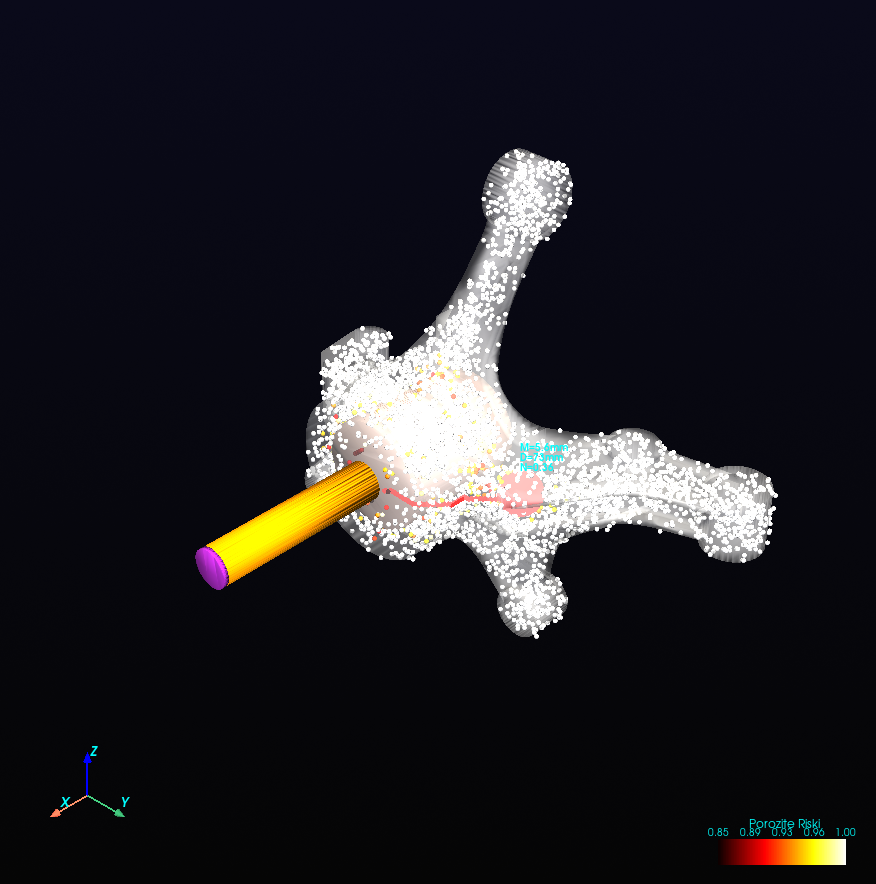
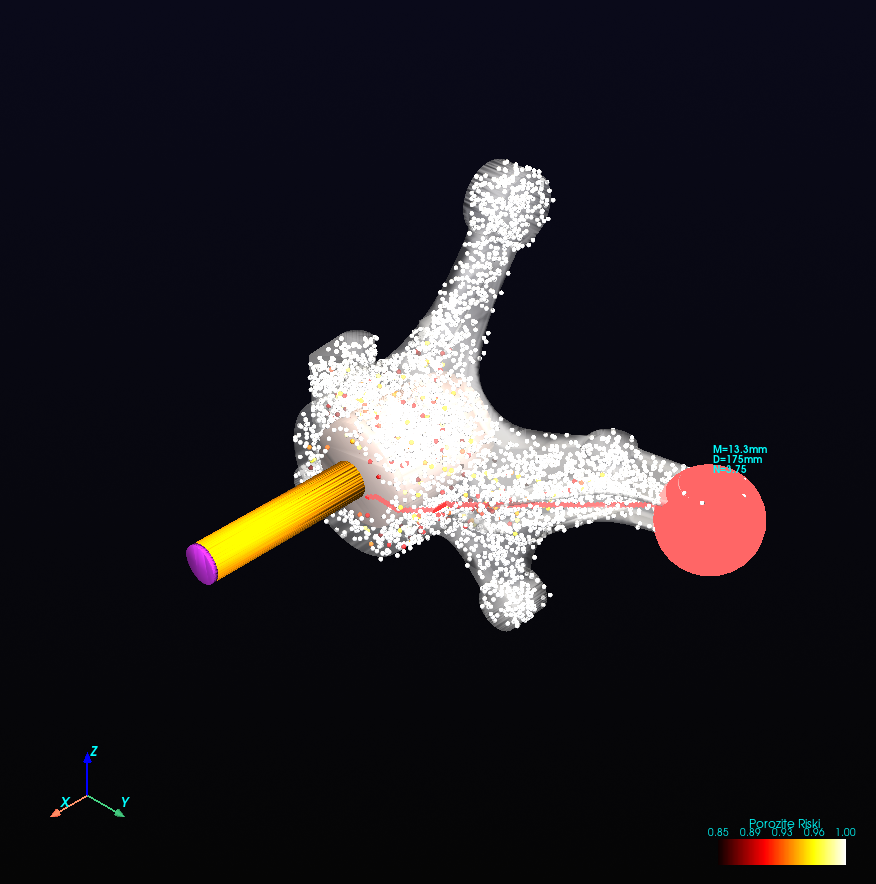
v8.3: shape-corrected Niyama, M_mod hot-spot detection, alloy feed distances, Darcy fix

Changed region(s): [[0.2158, 0.1527, 0.8938, 0.733]]

diff --git a/core/sdf_analyzer.py b/core/sdf_analyzer.py
@@ -1,7 +1,7 @@
 """SDF-based geometric + pseudo-thermal casting analyzer - JoseCast v8.0."""
 
 from dataclasses import replace
-from typing import Dict, List, Optional, Tuple
+from typing import Dict, List, Optional, Tuple, Union
 
 import numpy as np
 import trimesh
@@ -168,24 +168,26 @@ def _scheil_fs(T_arr, t_liq, t_sol, k):
 
 
 def _temperature_from_erf(
-    sdf: np.ndarray, t: float, alloy: Alloy, mold: MoldMaterial
+    sdf: np.ndarray, t: Union[float, np.ndarray], alloy: Alloy, mold: MoldMaterial
 ) -> np.ndarray:
     """1-D semi-infinite solution of the Fourier heat equation in the normal direction."""
     alpha = mold.diffusivity_mm2_s
-    if t <= 0 or alpha <= 0:
+    if alpha <= 0:
         return np.full_like(sdf, alloy.t_pour_c)
+    t = np.maximum(np.asarray(t, dtype=np.float64), 1e-9)
     arg = sdf / (2.0 * np.sqrt(alpha * t))
     T = mold.t0_c + (alloy.t_pour_c - mold.t0_c) * erf(arg)
     return np.clip(T, mold.t0_c, alloy.t_pour_c)
 
 
 def _cooling_rate_from_erf(
-    sdf: np.ndarray, t: float, alloy: Alloy, mold: MoldMaterial
+    sdf: np.ndarray, t: Union[float, np.ndarray], alloy: Alloy, mold: MoldMaterial
 ) -> np.ndarray:
     """Time derivative dT/dt of the erf solution (always <= 0 for cooling)."""
     alpha = mold.diffusivity_mm2_s
-    if t <= 0 or alpha <= 0:
+    if alpha <= 0:
         return np.zeros_like(sdf)
+    t = np.maximum(np.asarray(t, dtype=np.float64), 1e-9)
     sqrt_term = np.sqrt(alpha * t)
     arg = sdf / (2.0 * sqrt_term)
     exp = np.exp(-(arg * arg))
@@ -204,20 +206,24 @@ def compute_thermal_field(
     n_steps: int = 100,
     progress_callback: Optional[callable] = None,
     sdf: Optional[np.ndarray] = None,
+    M_mod: Optional[np.ndarray] = None,
 ) -> Tuple[np.ndarray, np.ndarray, np.ndarray, np.ndarray]:
     """
-    Analytical thermal field from the 1-D heat equation normal to the surface:
-        T(x,t) = T0 + (T_pour - T0) * erf( x / (2 sqrt(alpha*t)) )
+    Analytical 1-D thermal field at the local Chvorinov solidification time:
+        T(x,t_s) = T0 + (T_pour - T0) * erf( x / (2 sqrt(alpha*t_s)) )
     x is the signed distance to the nearest surface (SDF). Latent heat enters
     through the Scheil solid fraction. Returns (T, dT/dt, fs, div(∇T)).
     """
     if sdf is None:
         sdf = compute_subvoxel_sdf(is_metal, dx, sub=1)
     C = chvorinov_c_from_properties(alloy, mold)
-    M_med = float(np.median(sdf[is_metal])) if is_metal.any() else 0.0
-    t_eval = max(0.5 * C * M_med ** 2, 1e-6)
-    T = _temperature_from_erf(sdf, t_eval, alloy, mold)
-    cooling_rate = -_cooling_rate_from_erf(sdf, t_eval, alloy, mold)
+    if M_mod is None:
+        M_field = sdf
+    else:
+        M_field = M_mod
+    t_s_field = np.maximum(compute_chvorinov_t(M_field, C), 1e-9)
+    T = _temperature_from_erf(sdf, t_s_field, alloy, mold)
+    cooling_rate = -_cooling_rate_from_erf(sdf, t_s_field, alloy, mold)
     solid_fraction = _scheil_fs(
         T, alloy.t_liquidus_c, alloy.t_solidus_c, alloy.partition_coefficient
     )
@@ -236,24 +242,43 @@ def compute_chvorinov_t(M_field: np.ndarray, C: float) -> np.ndarray:
 def compute_niyama(
     sdf: np.ndarray,
     M_mod: np.ndarray,
-    t_s: np.ndarray,
     alloy: Alloy,
+    mold: MoldMaterial,
+    dx: float,
     is_metal: Optional[np.ndarray] = None,
+    temperature: Optional[np.ndarray] = None,
+    cooling_rate: Optional[np.ndarray] = None,
 ) -> Tuple[np.ndarray, np.ndarray, np.ndarray]:
     """
-    Physically-based Niyama criterion N = G / sqrt(R) [K s^0.5 / mm].
-    G is estimated from the Stefan velocity of the solidification front,
-    R = ΔT_solid / t_s is the Chvorinov cooling rate. The result is weighted
-    by the local shape factor f = M_mod/sdf (sphere f=1/3, plate f≈1).
+    Physically-based Niyama criterion N = G / sqrt(R)  [K s^0.5 / mm].
+    G is the metal-side temperature gradient required to remove latent +
+    superheat, estimated from the Stefan velocity v = M_mod / t_s.  R is the
+    Chvorinov cooling rate ΔT_solid / t_s.  The result is weighted by
+    f = M_mod / sdf so that bulky, sphere-like regions (f < 1) report lower
+    Niyama (higher shrinkage risk) than plates (f ≈ 1).
     """
+    C = chvorinov_c_from_properties(alloy, mold)
+    t_s = np.maximum(compute_chvorinov_t(M_mod, C), 1e-9)
+    # Stefan velocity based on the local shape-corrected modulus [mm/s]
+    v_solid = M_mod / t_s
     l_eff = alloy.latent_heat_j_kg + alloy.cp_j_kgk * max(
         alloy.t_pour_c - alloy.t_liquidus_c, 0.0
     )
-    v_solid = sdf / (2.0 * np.maximum(t_s, 1e-12))
-    G = alloy.rho_kg_m3 * l_eff * v_solid / (alloy.k_w_mk * 1e6)
-    R = (alloy.t_liquidus_c - alloy.t_solidus_c) / np.maximum(t_s, 1e-12)
+    # Metal-side gradient required to carry away latent + superheat [K/mm]
+    G = np.where(
+        sdf > 0,
+        alloy.rho_kg_m3 * l_eff * v_solid / (alloy.k_w_mk * 1e6),
+        0.0,
+    )
+    # Cooling rate from Chvorinov [K/s]
+    R = np.where(
+        sdf > 0,
+        (alloy.t_liquidus_c - alloy.t_solidus_c) / t_s,
+        0.0,
+    )
     with np.errstate(divide="ignore", invalid="ignore"):
         niyama = G / np.sqrt(np.maximum(R, 1e-12))
+    # Shape correction: sphere-like regions (f < 1) get lower Niyama
     shape_factor = M_mod / np.maximum(sdf, 1e-6)
     niyama = niyama * shape_factor
     niyama = np.nan_to_num(niyama, nan=0.0, posinf=0.0, neginf=0.0)
@@ -367,23 +392,32 @@ def find_hotspots(
     min_size_mm: float = 2.0,
     cluster_eps_mm: float = 10.0,
 ) -> List[HotSpot]:
-    """Detect SDF local maxima on the medial axis and cluster with DBSCAN."""
+    """Detect M_mod local maxima on the medial axis and cluster with DBSCAN."""
+    # Shape-corrected modulus: bulky regions (κ < 0, sphere-like) get larger f
+    if curvature is not None:
+        shape_factor_field = np.clip(
+            1.0 + np.maximum(-curvature * sdf, 0.0), 1.0, 3.0
+        )
+    else:
+        shape_factor_field = np.ones_like(sdf)
+    M_mod = sdf / shape_factor_field
+
     if use_skeleton:
         try:
             skeleton = skeletonize(part_mask)
-            search_mask = skeleton & (sdf > min_size_mm)
+            search_mask = skeleton & (M_mod > min_size_mm)
             if not search_mask.any():
-                search_mask = part_mask & (sdf > min_size_mm)
+                search_mask = part_mask & (M_mod > min_size_mm)
         except Exception:
-            search_mask = part_mask & (sdf > min_size_mm)
+            search_mask = part_mask & (M_mod > min_size_mm)
     else:
-        search_mask = part_mask & (sdf > min_size_mm)
+        search_mask = part_mask & (M_mod > min_size_mm)
 
     if not search_mask.any():
         return []
 
     size_vox = max(1, int(5.0 / dx))
-    local_max = sdf == ndimage.maximum_filter(sdf, size=size_vox, mode="constant")
+    local_max = M_mod == ndimage.maximum_filter(M_mod, size=size_vox, mode="constant")
     candidates = np.argwhere(local_max & search_mask)
     if len(candidates) == 0:
         candidates = np.argwhere(search_mask)
@@ -391,7 +425,7 @@ def find_hotspots(
     # Combine curvature (sharp corners) as additional candidates.
     if curvature is not None:
         high_curv = (np.abs(curvature) > np.percentile(np.abs(curvature[part_mask]), 95)) & part_mask
-        extra = np.argwhere(high_curv & (sdf > min_size_mm))
+        extra = np.argwhere(high_curv & (M_mod > min_size_mm))
         if len(extra):
             candidates = np.vstack([candidates, extra]) if len(candidates) else extra
 
@@ -406,17 +440,11 @@ def find_hotspots(
         if lbl == -1:
             continue
         pts = candidates[labels == lbl]
-        vals = sdf[pts[:, 0], pts[:, 1], pts[:, 2]]
+        vals = M_mod[pts[:, 0], pts[:, 1], pts[:, 2]]
         idx = int(np.argmax(vals))
         pos_vox = pts[idx]
-        sdf_val = float(vals[idx])
-        # local shape factor from mean curvature: sphere -> f=3, plate -> f=1
-        shape_factor = 1.0
-        if curvature is not None:
-            kappa = float(curvature[pos_vox[0], pos_vox[1], pos_vox[2]])
-            shape_factor = 1.0 + max(0.0, -kappa * sdf_val)
-            shape_factor = min(max(shape_factor, 1.0), 3.0)
-        m_value = sdf_val / shape_factor
+        m_value = float(vals[idx])
+        sdf_val = float(sdf[pos_vox[0], pos_vox[1], pos_vox[2]])
         position_mm = origin_mm + pos_vox * dx
         hotspots.append(
             HotSpot(
@@ -723,7 +751,8 @@ def _path_darcy_and_directional(
             P_head = alloy.rho_kg_m3 * 9.81 * (dz_mm / 1000.0)
 
     # Feeding shrinkage demand: shrinkage of the last-liquid pocket at the hot spot
-    V_hotspot_mm3 = (4.0 / 3.0) * np.pi * max(hot_sdf, 1e-3) ** 3
+    hot_M = M_mod[start_vox[0], start_vox[1], start_vox[2]]
+    V_hotspot_mm3 = (4.0 / 3.0) * np.pi * max(hot_M, 1e-3) ** 3
     V_shrink_mm3 = alloy.shrinkage_factor * V_hotspot_mm3
     Q_mm3_s = V_shrink_mm3 / max(t_s_hot, 1e-9)
 
@@ -731,25 +760,26 @@ def _path_darcy_and_directional(
     darcy = 0.0
     mu = max(alloy.viscosity_pa_s, 1e-6)
     d_dend = max(alloy.dendrite_spacing_mm, 0.01)
+    f_l_stop = 0.10  # end of mass feeding / interdendritic flow
     feed_stopped = False
     for vox in path[:-1]:
         sdf_i = max(float(sdf[vox[0], vox[1], vox[2]]), 0.5)
+        M_i = max(float(M_mod[vox[0], vox[1], vox[2]]), 0.5)
         f_l = _liquid_fraction_at_time(sdf_i, t_s_hot, alloy, mold)
-        if f_l <= 0.20:
+        if f_l <= f_l_stop:
             feed_stopped = True
             break
         # Kozeny-Carman permeability in the mushy zone [mm²]
         fl_c = max(min(f_l, 0.97), 0.05)
         K_mm2 = (d_dend ** 2 / 180.0) * (fl_c ** 3) / ((1.0 - fl_c) ** 2)
-        # Cross-section approximated as a disk of the local inscribed radius
-        A_mm2 = np.pi * sdf_i * sdf_i
+        # Cross-section approximated as a disk of the local modulus
+        A_mm2 = np.pi * M_i * M_i
         v_mms = Q_mm3_s / max(A_mm2, 1e-6)
         v_ms = v_mms / 1000.0
         darcy += mu * v_ms * (dx / 1000.0) / max(K_mm2 / 1e6, 1e-15)
 
-    if feed_stopped:
-        darcy = 1e9
-    darcy_ok = (not feed_stopped) and (darcy < max(P_head, 1.0))
+    # Minimum driving head: 1000 Pa ≈ 0.01 atm / ~13 mm metal head
+    darcy_ok = (not feed_stopped) and (darcy < max(P_head, 1000.0))
 
     # Heuver / directional checks on the PART portion of the path
     part_path = [v for v in path if part_mask[v[0], v[1], v[2]]]
@@ -903,7 +933,13 @@ def _refine_region(
     )
     M_mod = sdf / shape_factor_field
     t_s = compute_chvorinov_t(M_mod, C)
-    G, R, niyama = compute_niyama(sdf, M_mod, t_s, alloy, is_metal=is_metal)
+    T, R, fs, _ = compute_thermal_field(
+        grid, is_metal, alloy, mold, dx, sdf=sdf, M_mod=M_mod
+    )
+    G, R, niyama = compute_niyama(
+        sdf, M_mod, alloy, mold, dx, is_metal=is_metal,
+        temperature=T, cooling_rate=R,
+    )
 
     niyama_risk = np.clip(1.0 - niyama / alloy.niyama_shrinkage, 0.0, 1.0)
     FD_field = alloy.feed_k1 * (2.0 * M_mod)
@@ -1011,17 +1047,20 @@ def analyze(
     if progress_callback:
         progress_callback(28)
 
-    # AŞAMA 3: Thermal field (1-D erf solution of Fourier equation + Scheil)
+    # AŞAMA 3: Thermal field at local solidification time (1-D erf + Scheil)
+    t_s = compute_chvorinov_t(M_mod, chvorinov_c)
     temperature, cooling_rate, solid_fraction, thermal_divergence = compute_thermal_field(
         grid, is_metal, alloy, mold, dx, n_steps=n_thermal_steps,
-        progress_callback=progress_callback, sdf=sdf,
+        progress_callback=progress_callback, sdf=sdf, M_mod=M_mod,
     )
     if progress_callback:
         progress_callback(50)
 
-    # AŞAMA 4: Chvorinov + physical Niyama family
-    t_s = compute_chvorinov_t(M_mod, chvorinov_c)
-    G, R, niyama = compute_niyama(sdf, M_mod, t_s, alloy, is_metal=is_metal)
+    # AŞAMA 4: Niyama from 3-D thermal gradient and local cooling rate
+    G, R, niyama = compute_niyama(
+        sdf, M_mod, alloy, mold, dx, is_metal=is_metal,
+        temperature=temperature, cooling_rate=cooling_rate,
+    )
     niyama_variants = compute_niyama_variants(niyama, G, R, t_s, alloy)
     niyama = compute_niyama_ensemble(niyama)
     if progress_callback:

diff --git a/ui/main_window.py b/ui/main_window.py
@@ -259,6 +259,14 @@ class MainWindow(QtWidgets.QMainWindow):
         self.mold_combo.currentIndexChanged.connect(self._sync_casting_params_from_materials)
         _settings_labeled(self.mold_combo, "Kalıp:")
 
+        # Set defaults after both combos exist; block signals to avoid partial sync.
+        self.alloy_combo.blockSignals(True)
+        self.mold_combo.blockSignals(True)
+        self.alloy_combo.setCurrentIndex(list(ALLOYS.keys()).index("42CrMo4"))
+        self.mold_combo.setCurrentIndex(list(MOLDS.keys()).index("sand"))
+        self.alloy_combo.blockSignals(False)
+        self.mold_combo.blockSignals(False)
+
         left_layout.addWidget(settings_group)
 
         # Casting parameters group
@@ -332,6 +340,9 @@ class MainWindow(QtWidgets.QMainWindow):
         )
 
         left_layout.addWidget(params_group)
+
+        # Sync casting parameter defaults now that all parameter spin boxes exist.
+        self._sync_casting_params_from_materials()
 
         # Actions group
         actions_group = QtWidgets.QGroupBox("4. Motor")

diff --git a/core/materials.py b/core/materials.py
@@ -133,7 +133,7 @@ ALLOYS: Dict[str, Alloy] = {
         particle_size_mm=0.30,
         shrinkage_factor=0.07,
         dendrite_spacing_mm=0.08,
-        feed_k1=4.5,
+        feed_k1=3.5,
         feed_k2=0.0,
         niyama_macro=0.775,
         niyama_shrinkage=1.5,
@@ -175,7 +175,7 @@ ALLOYS: Dict[str, Alloy] = {
         particle_size_mm=0.25,
         shrinkage_factor=0.03,
         dendrite_spacing_mm=0.12,
-        feed_k1=4.5,
+        feed_k1=6.0,
         feed_k2=0.0,
         niyama_macro=0.775,
         niyama_shrinkage=1.5,
@@ -196,7 +196,7 @@ ALLOYS: Dict[str, Alloy] = {
         particle_size_mm=0.30,
         shrinkage_factor=0.06,
         dendrite_spacing_mm=0.10,
-        feed_k1=4.5,
+        feed_k1=4.0,
         feed_k2=0.0,
         niyama_macro=0.775,
         niyama_shrinkage=1.5,